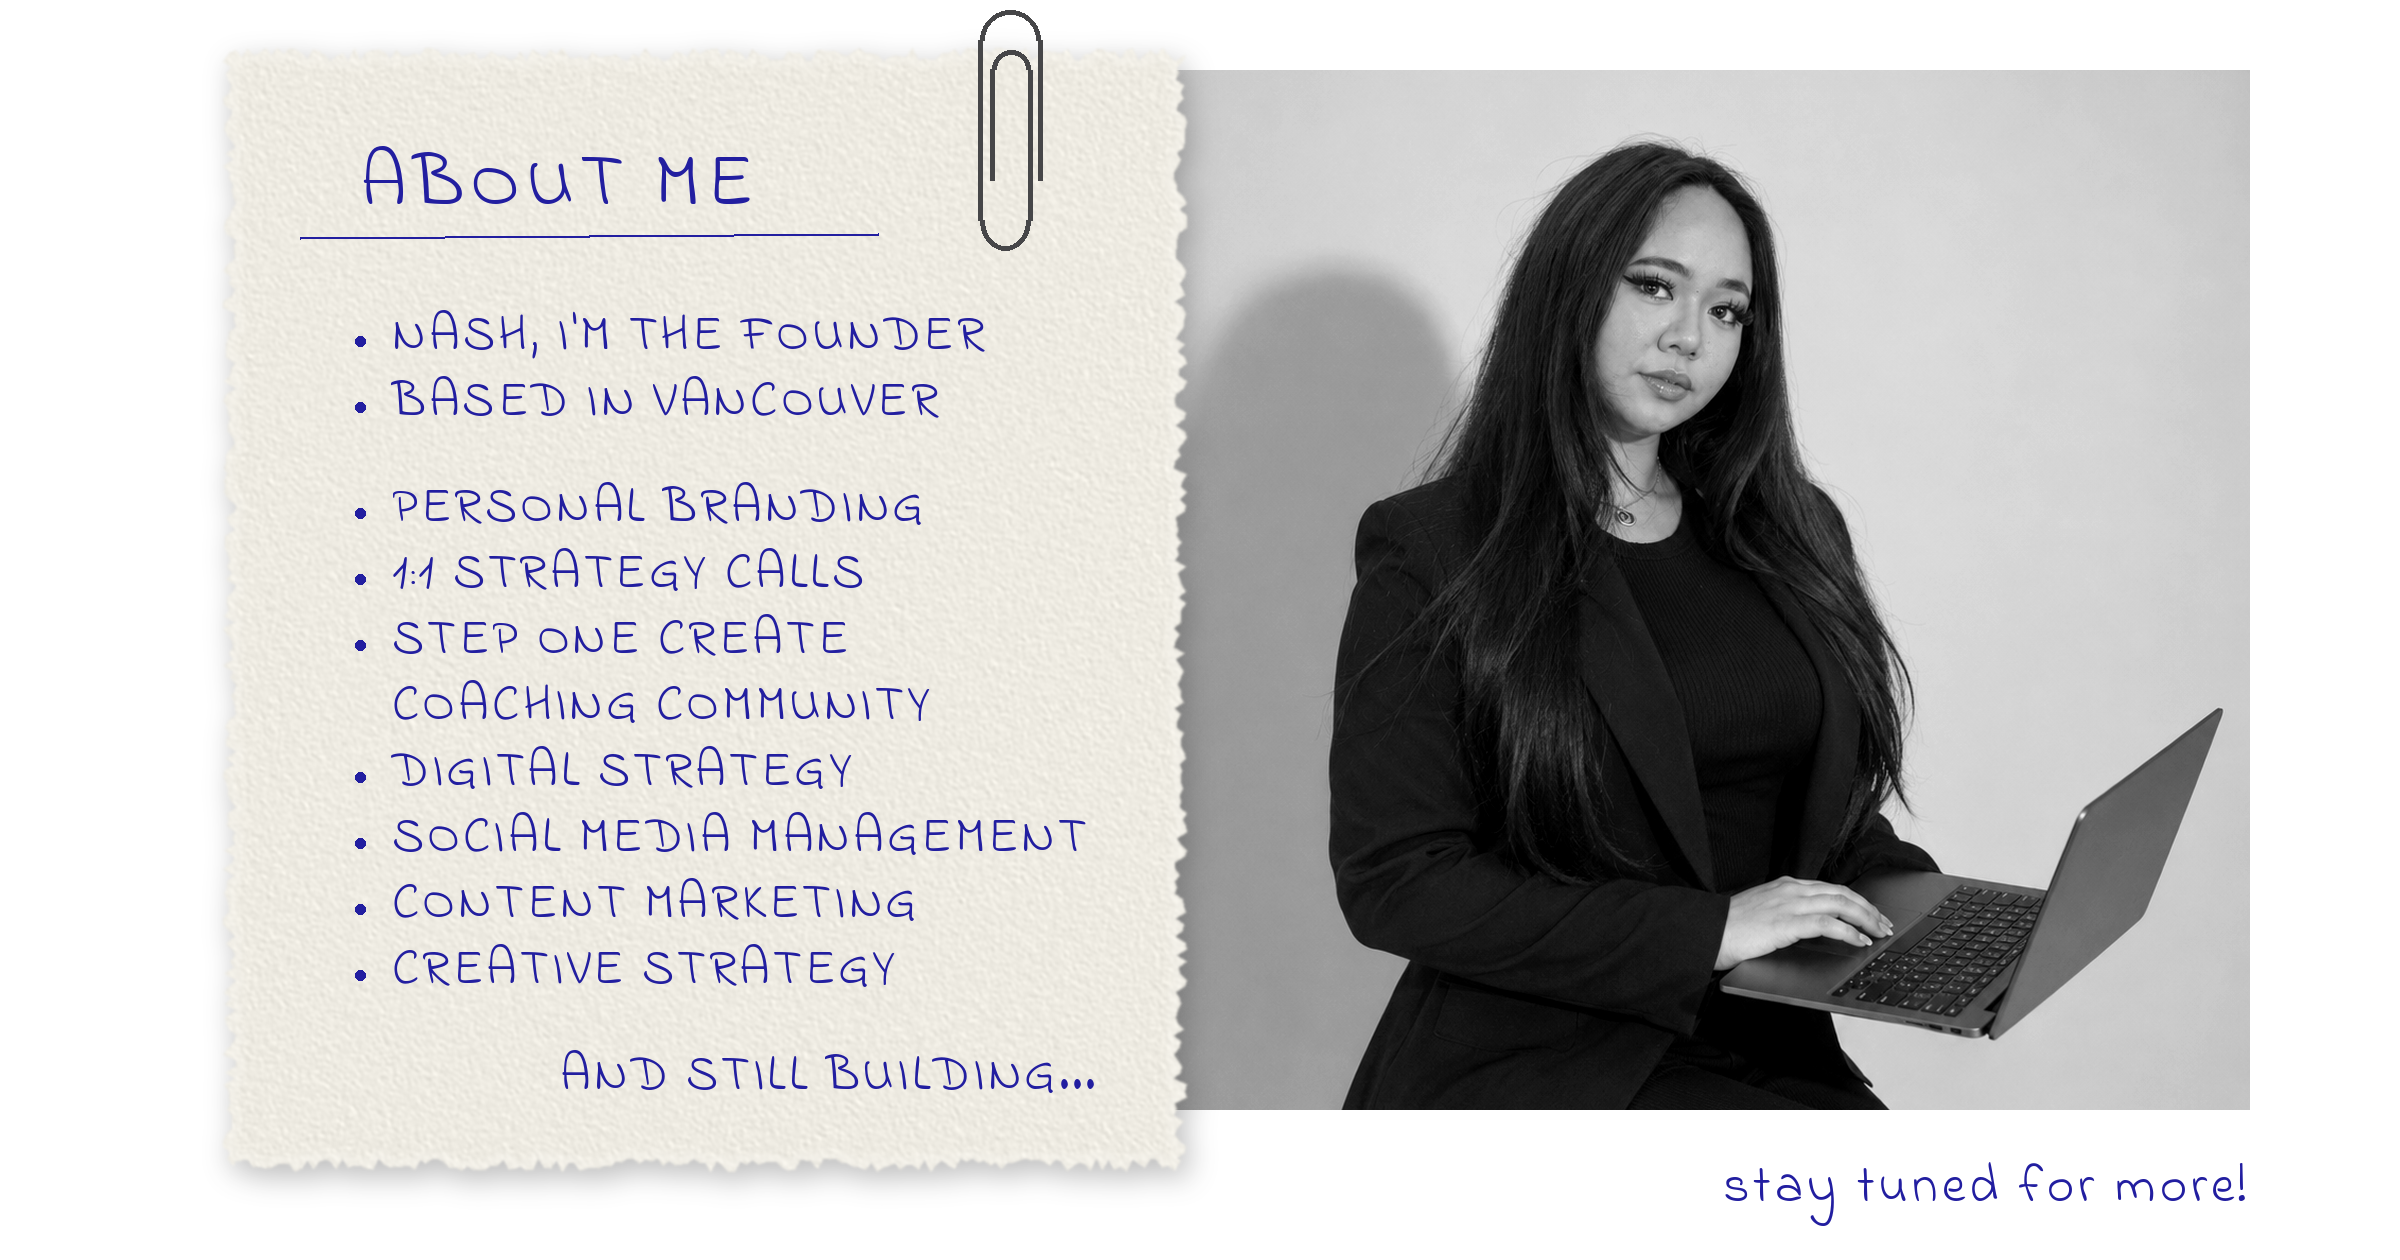
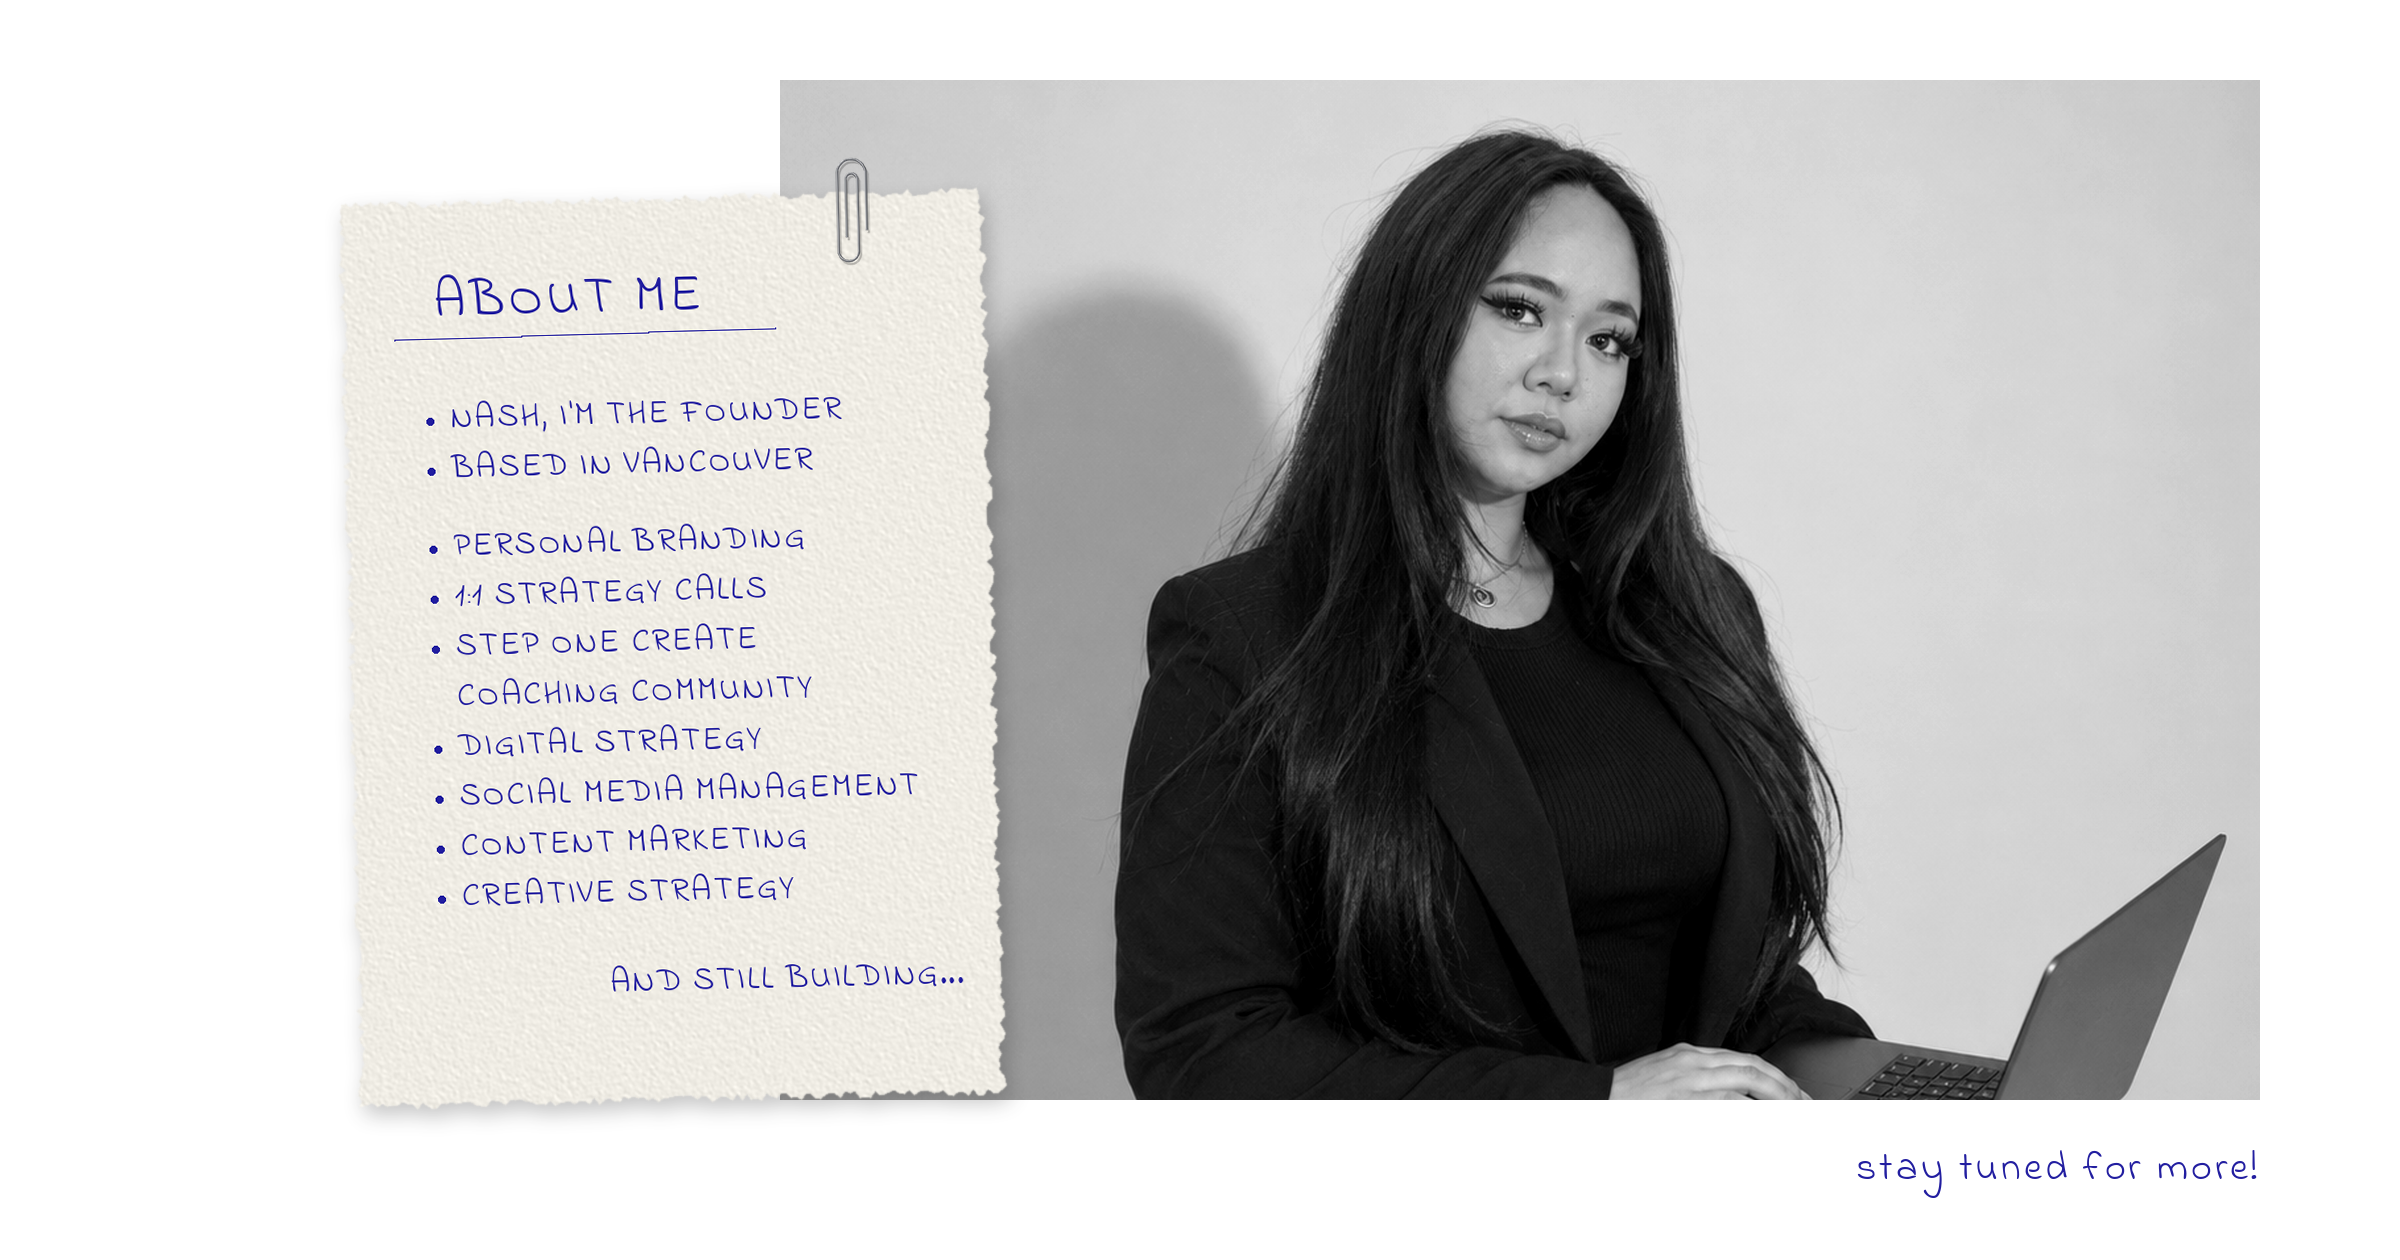
About me header: smaller tilted note, smaller handwriting, small paperclip
Claude-Session: https://claude.ai/code/session_01UnZExAi7n6NZXi1T3YtVwj

diff --git a/scripts/make_about_header.py b/scripts/make_about_header.py
@@ -1,6 +1,6 @@
-"""'About me' header (2400x1260): torn paper note with handwritten list,
-paper-clipped over a natural B&W photo, on white."""
-import sys, random
+"""'About me' header (2400x1260): small torn paper note with handwritten list,
+slightly tilted and paper-clipped over a natural B&W photo, on white."""
+import sys, random, math
 import numpy as np
 from PIL import Image, ImageDraw, ImageFilter, ImageFont, ImageOps
 
@@ -13,118 +13,133 @@ np.random.seed(7)
 
 canvas = Image.new("RGB", (W, H), (255, 255, 255))
 
-# --- photo block (right) ---
-PX0, PY0, PX1, PY1 = 1060, 70, 2250, 1110
+# --- photo block (large, right) ---
+PX0, PY0, PX1, PY1 = 780, 80, 2260, 1100
 pw, ph = PX1 - PX0, PY1 - PY0
 src = ImageOps.grayscale(Image.open(SRC))
-s = pw / src.width * 1.0
+s = pw / src.width
 src = src.resize((pw, round(src.height * s)), Image.LANCZOS)
-top = int(270 * s)
+top = int(300 * s)
 photo = src.crop((0, top, pw, top + ph))
 a = np.asarray(photo).astype(np.float32) / 255
 a = np.clip(((a ** 1.05) - 0.5) * 1.1 + 0.5, 0, 1)
-photo = Image.fromarray((a * 255).astype(np.uint8)).convert("RGB")
-canvas.paste(photo, (PX0, PY0))
+canvas.paste(Image.fromarray((a * 255).astype(np.uint8)).convert("RGB"), (PX0, PY0))
 
-# --- torn paper (left, overlapping the photo) ---
-NX0, NY0, NX1, NY1 = 230, 55, 1180, 1165
+# --- note (built flat, then tilted) ---
+NW, NH, M = 640, 900, 40                       # paper size + margin for rotation
+LW, LH = NW + 2 * M, NH + 2 * M
 
 def jag(p0, p1, n, amp):
     (x0, y0), (x1, y1) = p0, p1
-    pts = []
+    out = []
     for i in range(n):
         t = i / n
         x, y = x0 + (x1 - x0) * t, y0 + (y1 - y0) * t
         o = random.uniform(-amp, amp)
         if x0 == x1: x += o
         else: y += o
-        pts.append((x, y))
-    return pts
+        out.append((x, y))
+    return out
 
-poly = (jag((NX0, NY0), (NX1, NY0), 160, 7) + jag((NX1, NY0), (NX1, NY1), 180, 7)
-        + jag((NX1, NY1), (NX0, NY1), 160, 7) + jag((NX0, NY1), (NX0, NY0), 180, 7))
-mask = Image.new("L", (W, H), 0)
+c = [(M, M), (M + NW, M), (M + NW, M + NH), (M, M + NH)]
+poly = jag(c[0], c[1], 130, 4) + jag(c[1], c[2], 170, 4) + jag(c[2], c[3], 130, 4) + jag(c[3], c[0], 170, 4)
+mask = Image.new("L", (LW, LH), 0)
 ImageDraw.Draw(mask).polygon(poly, fill=255)
-mask = mask.filter(ImageFilter.GaussianBlur(1.2))
+mask = mask.filter(ImageFilter.GaussianBlur(0.8))
 
-# paper texture: warm off-white with soft fibrous noise
-noise = np.random.normal(0, 1, (H // 2, W // 2)).astype(np.float32)
-noise = np.asarray(Image.fromarray(((noise * 40) + 128).clip(0, 255).astype(np.uint8))
-                   .resize((W, H)).filter(ImageFilter.GaussianBlur(1.5))).astype(np.float32)
-emb = np.asarray(Image.fromarray(noise.astype(np.uint8)).filter(ImageFilter.EMBOSS)).astype(np.float32)
-base = np.array([238, 235, 226], np.float32)
-tex = base[None, None, :] + ((emb - 128) * 0.35)[..., None] + ((noise - 128) * 0.08)[..., None]
-paper = Image.fromarray(tex.clip(0, 255).astype(np.uint8))
+# paper texture: warm off-white, fine fibres
+noise = np.random.normal(0, 1, (LH // 2, LW // 2)).astype(np.float32)
+noise_img = Image.fromarray(((noise * 40) + 128).clip(0, 255).astype(np.uint8)).resize((LW, LH)).filter(ImageFilter.GaussianBlur(1.2))
+nz = np.asarray(noise_img).astype(np.float32)
+emb = np.asarray(noise_img.filter(ImageFilter.EMBOSS)).astype(np.float32)
+base = np.array([240, 237, 229], np.float32)
+tex = base + ((emb - 128) * 0.28)[..., None] + ((nz - 128) * 0.06)[..., None]
+note = Image.fromarray(tex.clip(0, 255).astype(np.uint8)).convert("RGBA")
 
-# deckled edge: slightly lighter, fuzzy rim
-rim = mask.filter(ImageFilter.MinFilter(9))
-edge = ImageOps.invert(rim).point(lambda v: 255 if v > 0 else 0)
-edge = Image.composite(edge, Image.new("L", (W, H), 0), mask).filter(ImageFilter.GaussianBlur(3))
-paper = Image.composite(Image.new("RGB", (W, H), (248, 246, 240)), paper, edge.point(lambda v: v // 2))
-
-shadow = mask.filter(ImageFilter.GaussianBlur(14)).point(lambda v: int(v * 0.35))
-canvas = Image.composite(Image.new("RGB", (W, H), (60, 60, 60)),
-                         canvas, shadow.transform(
-                             (W, H), Image.AFFINE, (1, 0, -6, 0, 1, -10)))
-canvas = Image.composite(paper, canvas, mask)
-
-# --- handwriting ---
-d = ImageDraw.Draw(canvas)
-
-def spaced(x, y, text, font, track=4):
+# handwriting
+d = ImageDraw.Draw(note)
+def spaced(x, y, text, font, track=3):
     for ch in text:
         d.text((x, y), ch, font=font, fill=INK)
         x += d.textlength(ch, font=font) + track
     return x
 
-title = ImageFont.truetype(HAND, 76)
-body = ImageFont.truetype(HAND, 50)
+title = ImageFont.truetype(HAND, 52)
+body = ImageFont.truetype(HAND, 33)
 
-tx, ty = 360, 130
-end = spaced(tx, ty, "ABOUT ME", title, 6)
-d.line([(NX0 + 70, ty + 108), (end + 120, ty + 104)], fill=INK, width=3)
+tx, ty = M + 90, M + 60
+end = spaced(tx, ty, "ABOUT ME", title, 4)
+d.line([(M + 50, ty + 74), (end + 70, ty + 71)], fill=INK, width=2)
 
 lines = ["NASH, I'M THE FOUNDER", "BASED IN VANCOUVER", None,
          "PERSONAL BRANDING", "1:1 STRATEGY CALLS", "STEP ONE CREATE",
-         "    COACHING COMMUNITY", "DIGITAL STRATEGY", "SOCIAL MEDIA MANAGEMENT",
+         "~COACHING COMMUNITY", "DIGITAL STRATEGY", "SOCIAL MEDIA MANAGEMENT",
          "CONTENT MARKETING", "CREATIVE STRATEGY"]
-y = 300
+y = M + 190
+bx = M + 80
 for t in lines:
     if t is None:
-        y += 40
+        y += 28
         continue
-    if not t.startswith("    "):
-        d.ellipse([355, y + 36, 365, y + 46], fill=INK)
-        spaced(392, y, t, body, 3)
+    if t.startswith("~"):
+        spaced(bx + 24, y, t[1:], body, 2)
     else:
-        spaced(392, y, t.strip(), body, 3)
-    y += 66
+        d.ellipse([bx, y + 23, bx + 7, y + 30], fill=INK)
+        spaced(bx + 24, y, t, body, 2)
+    y += 50
+spaced(M + 250, y + 40, "AND STILL BUILDING...", body, 2)
 
-spaced(560, y + 40, "AND STILL BUILDING...", body, 3)
+note.putalpha(mask)
+ANG = 1.4                                      # gentle tilt
+note = note.rotate(ANG, resample=Image.BICUBIC, expand=True)
+NX, NY = 300, 150
+shadow_a = note.getchannel("A").filter(ImageFilter.GaussianBlur(10)).point(lambda v: int(v * 0.28))
+shadow = Image.new("RGBA", note.size, (40, 40, 40, 0)); shadow.putalpha(shadow_a)
+canvas = canvas.convert("RGBA")
+canvas.alpha_composite(shadow, (NX + 5, NY + 9))
+canvas.alpha_composite(note, (NX, NY))
+
+# --- small paperclip on the note's top edge (drawn 4x, downsampled) ---
+def clip_path():
+    pts = []
+    def line(a, b, n=20):
+        for i in range(n + 1):
+            t = i / n
+            pts.append((a[0] + (b[0] - a[0]) * t, a[1] + (b[1] - a[1]) * t))
+    def arc(cx, cy, r, a0, a1, n=30):
+        for i in range(n + 1):
+            a = math.radians(a0 + (a1 - a0) * i / n)
+            pts.append((cx + r * math.cos(a), cy + r * math.sin(a)))
+    line((10, 92), (10, 24)); arc(17, 24, 7, 180, 360)
+    line((24, 24), (24, 108)); arc(12, 108, 12, 0, 180)
+    line((0, 108), (0, 17)); arc(17, 17, 17, 180, 360)
+    line((34, 17), (34, 84))
+    return pts
+
+def paste_clip(x, y, scale=0.85, ss=4):
+    k = scale * ss
+    pad = 6 * ss
+    lw, lh = int(34 * k + 2 * pad), int(120 * k + 2 * pad)
+    lay = Image.new("RGBA", (lw, lh), (0, 0, 0, 0))
+    ld = ImageDraw.Draw(lay)
+    P = [(px * k + pad, py * k + pad) for px, py in clip_path()]
+    ld.line([(px + 2 * ss, py + 3 * ss) for px, py in P], fill=(0, 0, 0, 55), width=int(2.6 * ss), joint="curve")
+    ld.line(P, fill=(95, 97, 102, 255), width=int(2.6 * ss), joint="curve")
+    ld.line([(px - 0.5 * ss, py - 0.5 * ss) for px, py in P], fill=(205, 207, 210, 200), width=int(0.9 * ss), joint="curve")
+    lay = lay.resize((lw // ss, lh // ss), Image.LANCZOS).rotate(ANG, resample=Image.BICUBIC, expand=True)
+    canvas.alpha_composite(lay, (x, y))
+
+paste_clip(NX + M + NW - 150, NY + 2)
 
 # stay tuned (under the photo)
-small = ImageFont.truetype(HAND, 52)
+cd = ImageDraw.Draw(canvas)
+small = ImageFont.truetype(HAND, 40)
 st = "stay tuned for more!"
-w = sum(d.textlength(c, font=small) + 4 for c in st)
-spaced(PX1 - w, PY1 + 40, st, small, 4)
+w = sum(cd.textlength(ch, font=small) + 3 for ch in st)
+x = PX1 - w
+for ch in st:
+    cd.text((x, PY1 + 40), ch, font=small, fill=INK)
+    x += cd.textlength(ch, font=small) + 3
 
-# --- paperclip on the paper's top edge ---
-def clip(cx, cy, scale=1.0):
-    col, wd = (70, 70, 72), 5
-    def u(x0, x1, ytop, ybot):
-        r = (x1 - x0) / 2
-        d.arc([x0, ybot - 2 * r, x1, ybot], 0, 180, fill=col, width=wd)
-        d.arc([x0, ytop, x1, ytop + 2 * r], 180, 360, fill=col, width=wd)
-    # outer loop
-    d.arc([cx - 30, cy - 10, cx + 30, cy + 50], 180, 360, fill=col, width=wd)
-    d.line([(cx - 30, cy + 20), (cx - 30, cy + 200)], fill=col, width=wd)
-    d.line([(cx + 30, cy + 20), (cx + 30, cy + 160)], fill=col, width=wd)
-    d.arc([cx - 30, cy + 170, cx + 20, cy + 230], 0, 180, fill=col, width=wd)
-    d.line([(cx + 20, cy + 200), (cx + 20, cy + 50)], fill=col, width=wd)
-    d.arc([cx - 18, cy + 30, cx + 20, cy + 68], 180, 360, fill=col, width=wd)
-    d.line([(cx - 18, cy + 49), (cx - 18, cy + 160)], fill=col, width=wd)
-
-clip(1010, 20)
-
-canvas.save(OUT)
-print("saved", OUT, canvas.size, "list ends y", y)
+canvas.convert("RGB").save(OUT)
+print("saved", OUT, canvas.size, "list ends y", y, "of", M + NH)
